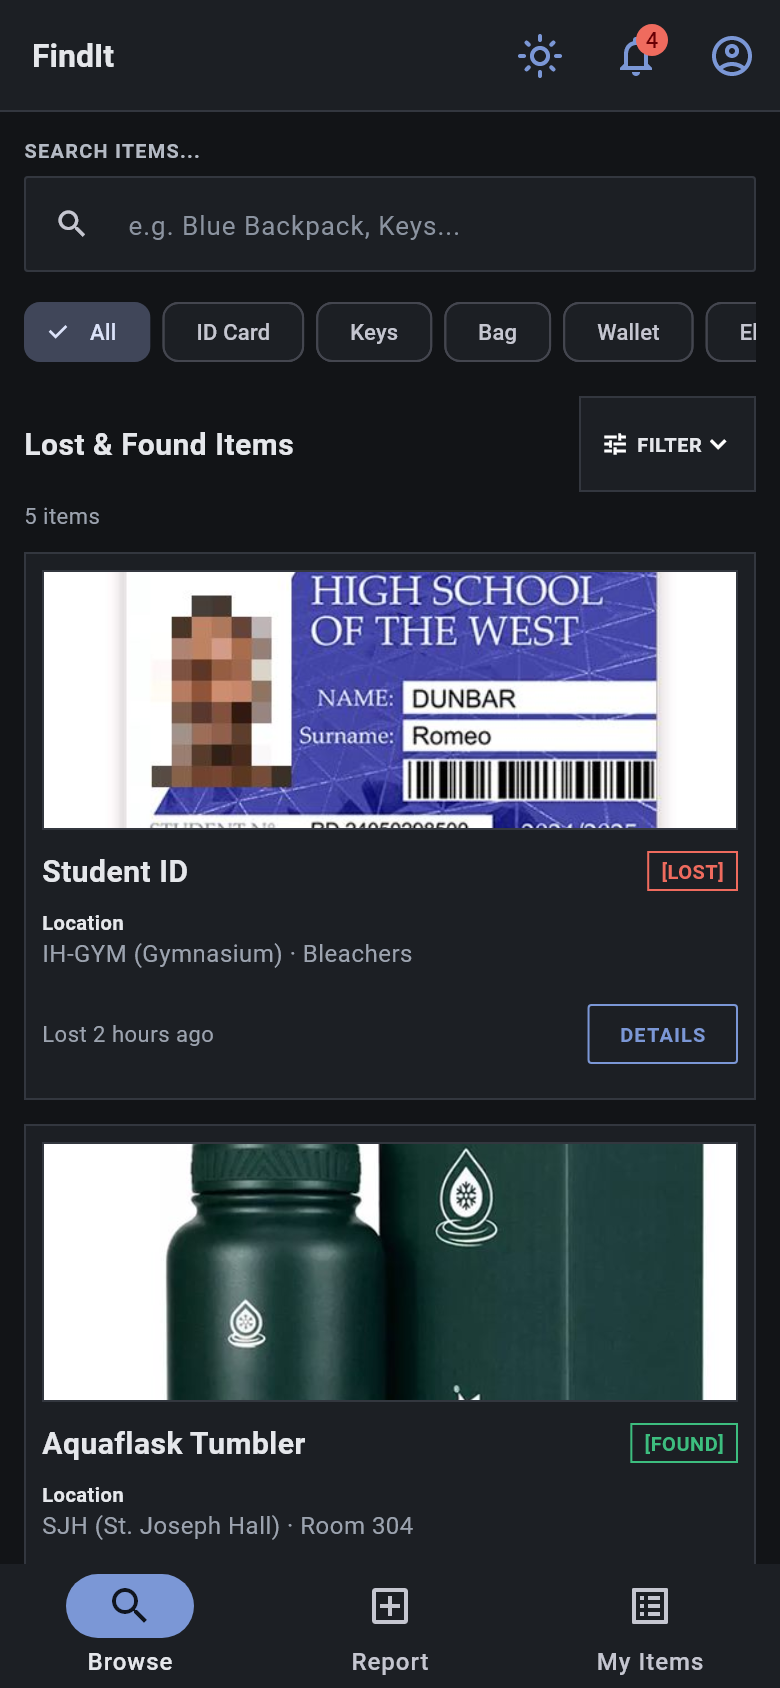
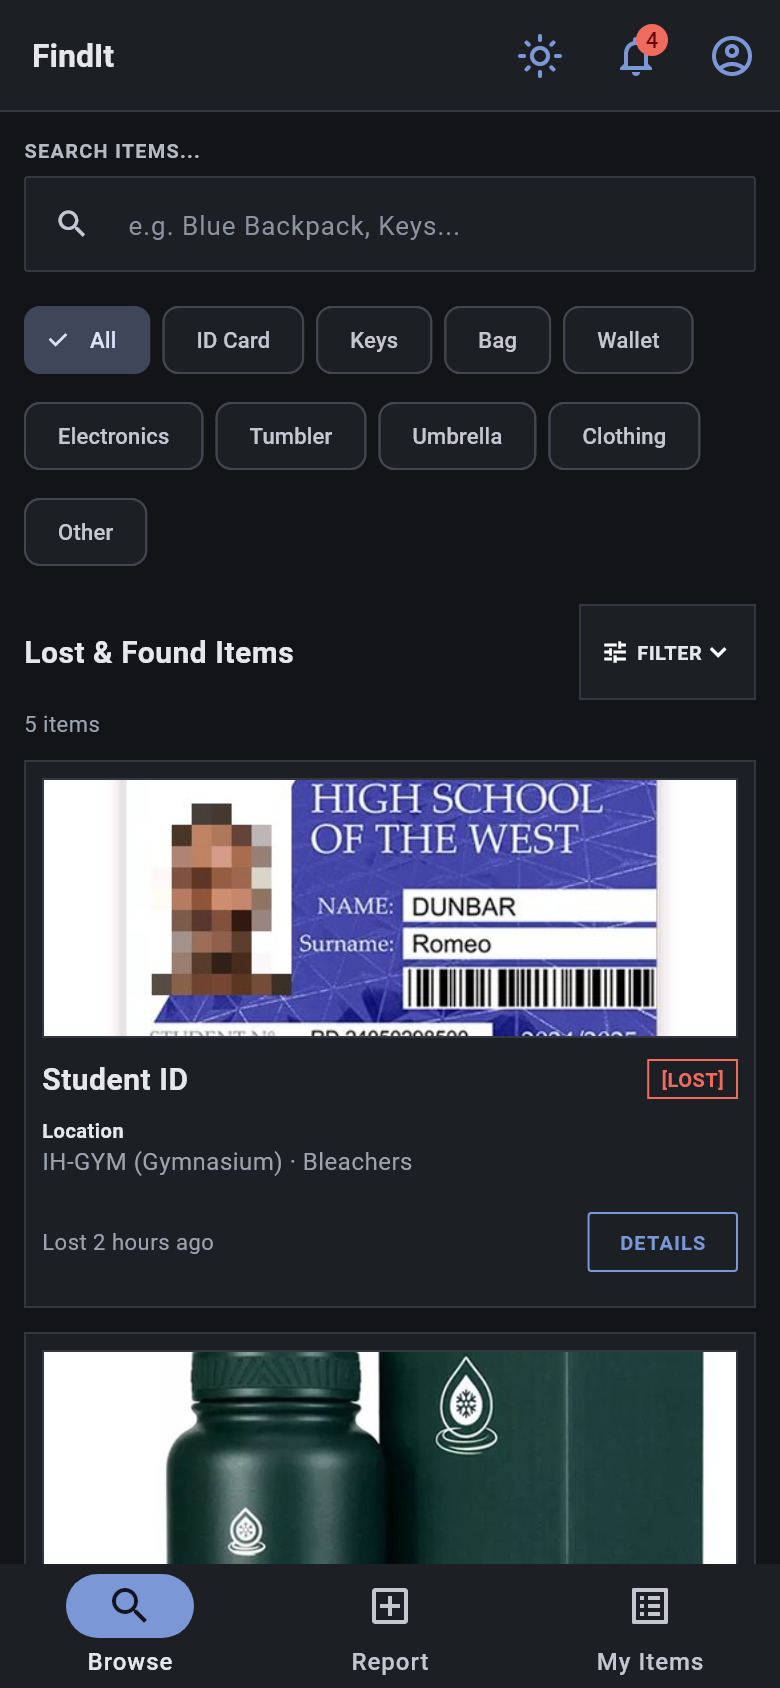
Wrap category chips so none are cut off

diff --git a/lib/features/home/home_screen.dart b/lib/features/home/home_screen.dart
@@ -33,14 +33,11 @@ class _HomeScreenState extends State<HomeScreen> {
       ..sort((a, b) => _filters.newestFirst ? b.date.compareTo(a.date) : a.date.compareTo(b.date));
   }
 
-  Widget _categoryChip(String label, String? value) => Padding(
-        padding: const EdgeInsets.only(right: 6),
-        child: ChoiceChip(
-          label: Text(label, style: const TextStyle(fontSize: 11)),
-          selected: _category == value,
-          visualDensity: VisualDensity.compact,
-          onSelected: (_) => setState(() => _category = value),
-        ),
+  Widget _categoryChip(String label, String? value) => ChoiceChip(
+        label: Text(label, style: const TextStyle(fontSize: 11)),
+        selected: _category == value,
+        materialTapTargetSize: MaterialTapTargetSize.padded, // At least 48 px to tap.
+        onSelected: (_) => setState(() => _category = value),
       );
 
   @override
@@ -71,13 +68,12 @@ class _HomeScreenState extends State<HomeScreen> {
                     decoration: const InputDecoration(hintText: 'e.g. Blue Backpack, Keys...', prefixIcon: Icon(Icons.search, size: 18)),
                   ),
                   const SizedBox(height: 10),
-                  SingleChildScrollView(
-                    scrollDirection: Axis.horizontal,
-                    child: Row(children: [
-                      _categoryChip('All', null),
-                      for (final c in Item.categories) _categoryChip(Item.categoryLabel(c), c),
-                    ]),
-                  ),
+                  // Wraps onto more lines instead of scrolling sideways, so no chip is cut off at the edge.
+                  // No run spacing: each chip's 48 px tap area already leaves a gap between rows.
+                  Wrap(spacing: 6, children: [
+                    _categoryChip('All', null),
+                    for (final c in Item.categories) _categoryChip(Item.categoryLabel(c), c),
+                  ]),
                   const SizedBox(height: 12),
                   Row(children: [
                     const Expanded(child: Text('Lost & Found Items', style: AppTextStyles.sectionTitle)),
